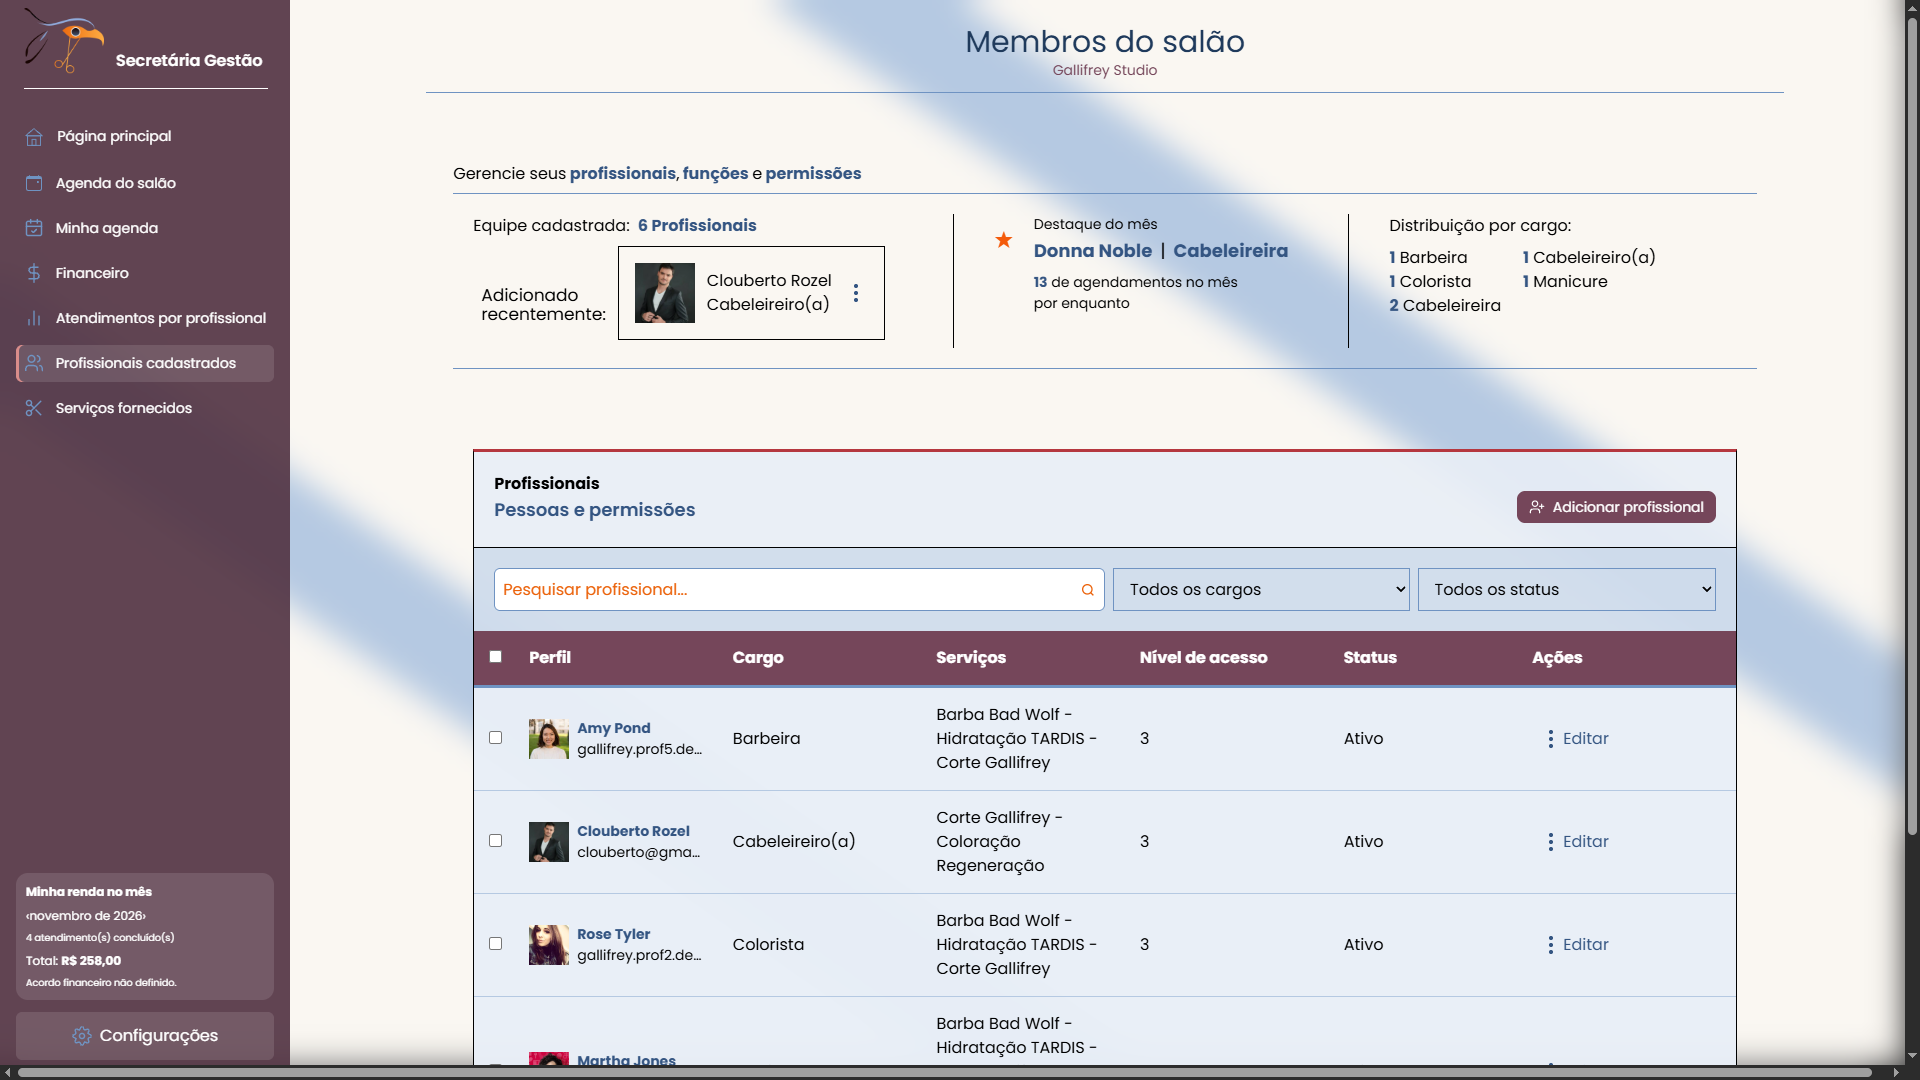
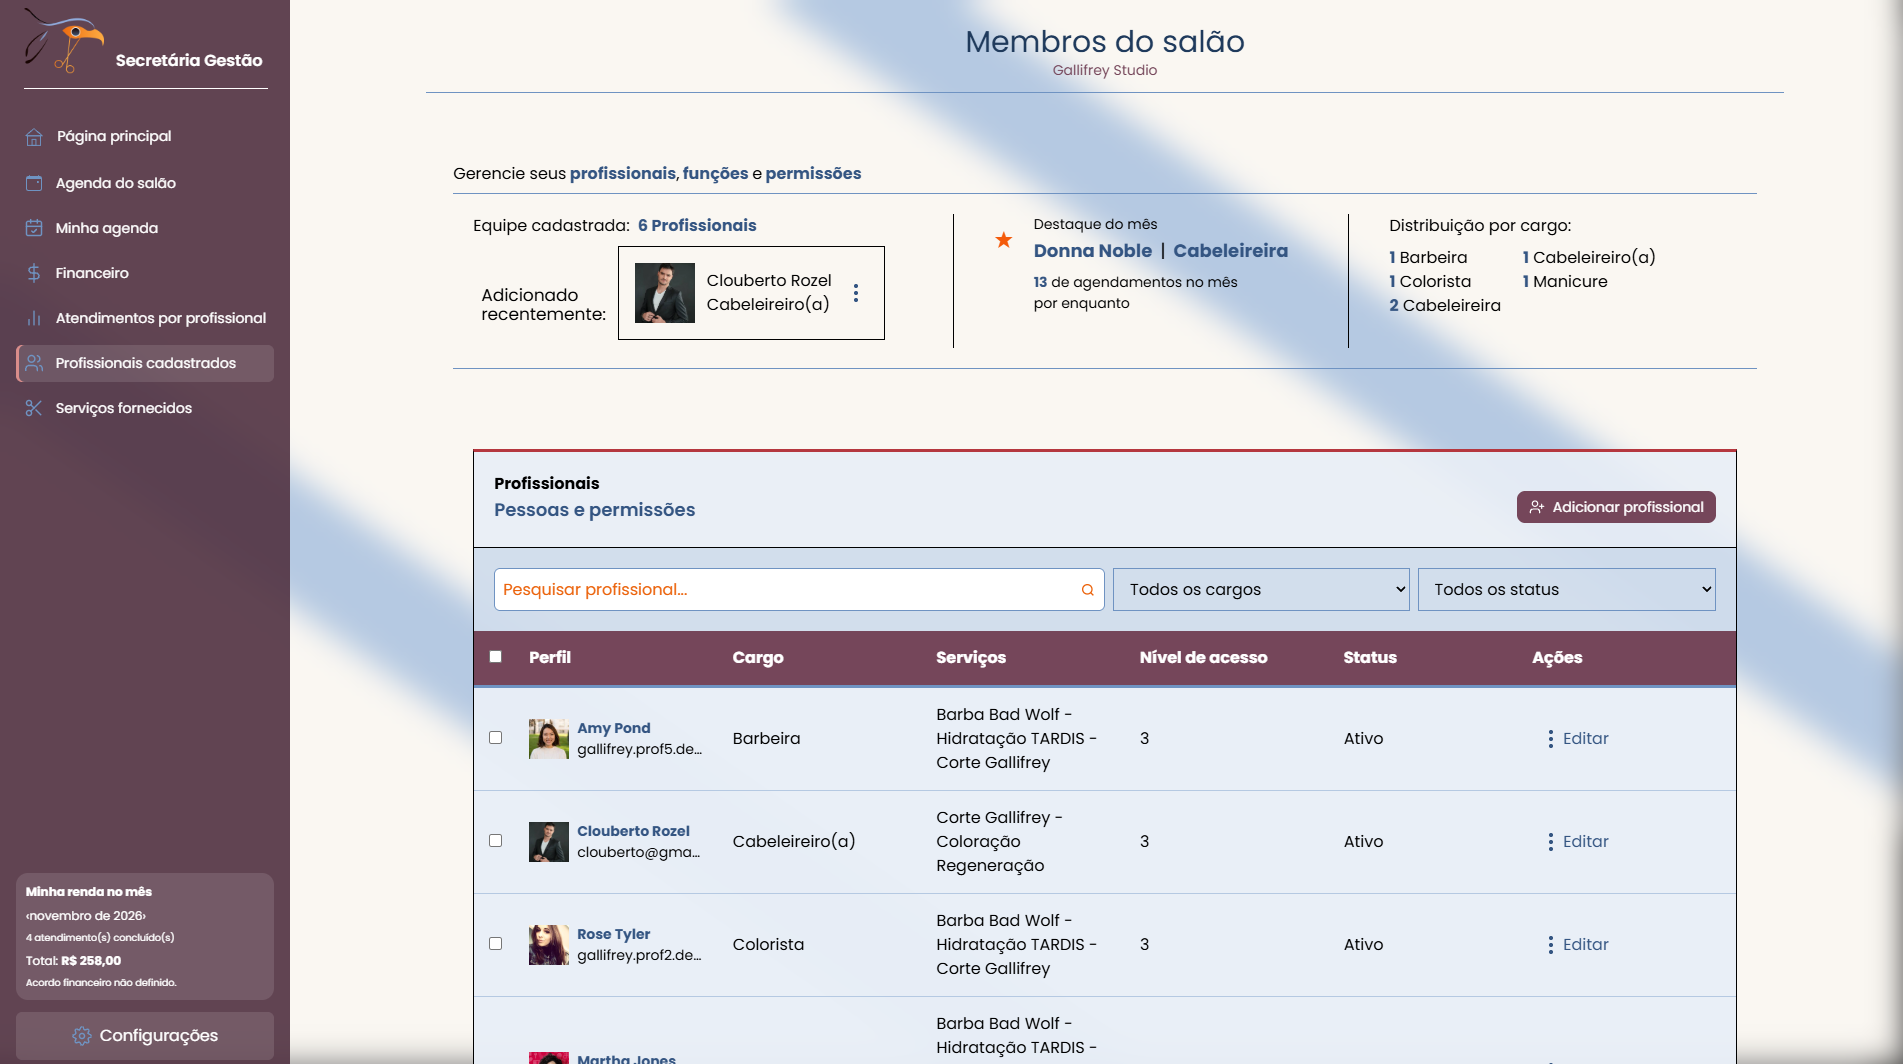
Continuando o layout

diff --git a/web/src/pages/Homepage/components/CardAcesso/CardAcesso.jsx b/web/src/pages/Homepage/components/CardAcesso/CardAcesso.jsx
@@ -9,10 +9,10 @@ function CardAcesso() {
 
   return (
     <div className='h-dvh overflow-x-hidden'>
-      <div className='h-full w-dvw bg-areia/20'>
+      <div className='h-full w-dvw bg-areia/30'>
 
         <header className='bg-ameixa flex p-5 gap-2 justify-between'>
-          <div className='flex items-center gap-2 bg-[#704356] p-2 rounded-md shadow-lg'>
+          <div className='flex items-center gap-2 p-2'>
             <img className="shrink-0 w-20" src="/logo_SVG.svg" alt="" />
 
             <div>
@@ -54,23 +54,49 @@ function CardAcesso() {
 
         </header>
 
-        <main className='h-full flex items-center bg  justify-center w-8/10 place-self-center'>
-          <div className='flex  gap-20 '>
+        <main className='h-full flex items-center justify-center w-8/10 place-self-center'>
+          <div className='flex gap-20 '>
 
             <img src="/imagem_homepage1.png" alt="" className='w-6/10 shadow-2xl' />
 
-            <div className='place-self-start h-max flex flex-col gap-2'>
+            <div className='place-self-center h-max flex flex-col gap-2'>
               <b className='text-4xl'>Organização, <br /> agilidade e beleza, <br /> tudo em um só lugar!</b>
               <p className=''>
                 Agende seu horário no salão em poucos cliques, ou <br /> gerencie agenda, profissionais e serviços do seu salão <br /> em um painel só.
               </p>
+              <div className='secao-card-comentarios'>
+                <div className='bg-azul-profundo text-white card-comentarios'>
+                  <div className='text-sm gap-4 flex'> Clarice Souza <div>★★★★☆</div></div>
+                  <p className='font-extralight text-sm -mt-4'> - Cliente </p>
+                  <p >"Achei fácil de usar, porém a tela de meus agendamentos é confusa."</p>
+                </div>
+                <div className='bg-azul-profundo text-white card-comentarios'>
+                  <div className='text-sm gap-4 flex'>Clarice Souza <div>★★★★☆</div> </div>
+                  <p >"Achei fácil de usar, porém a tela de meus agendamentos é confusa."</p>
+                </div>
+                <div className='bg-azul-profundo text-white card-comentarios'>
+                  <div className='text-sm gap-4 flex'> Clarice Souza <div>★★★★☆</div></div>
+                  <p className='font-extralight text-sm -mt-4'> - Cliente </p>
+                  <p >"Achei fácil de usar, porém a tela de meus agendamentos é confusa."</p>
+                </div>
+                <div className='bg-azul-profundo text-white card-comentarios'>
+                  <div className='text-sm gap-4 flex'> Clarice Souza <div>★★★★☆</div></div>
+                  <p className='font-extralight text-sm -mt-4'> - Cliente </p>
+                  <p >"Achei fácil de usar, porém a tela de meus agendamentos é confusa."</p>
+                </div>
+                <div className='bg-azul-profundo text-white card-comentarios'>
+                  <div className='text-sm gap-4 flex'> Clarice Souza <div>★★★★☆</div></div>
+                  <p className='font-extralight text-sm -mt-4'> - Cliente </p>
+                  <p >"Achei fácil de usar, porém a tela de meus agendamentos é confusa."</p>
+                </div>
+              </div>
             </div>
           </div>
         </main>
 
       </div>
 
-      <div className='h-full w-dvw bg-amber-950 text-white'>
+      <div className='h-full w-dvw bg-azul-profundo text-white'>
         <main className='h-full flex items-center   justify-center w-7/10 place-self-center'>
           <div className='flex  gap-20 '>
 
@@ -107,7 +133,7 @@ function CardAcesso() {
                     </div>
                   )}
                 </li>
-                
+
                 <li>
                   <Link to="/login" className='bg-[#704356] shadow-lg p-2 rounded-md'>
                     Agendar um horário

diff --git a/web/src/pages/Homepage/components/CardAcesso/CardAcesso.css b/web/src/pages/Homepage/components/CardAcesso/CardAcesso.css
@@ -1,24 +1,21 @@
-.homepage-CardAcesso {
-    display: flex;
-    flex-direction: column;
-    align-items: center;
-    width: max-content;
-    min-width: 320px;
-    border: 2px solid var(--borda-suave);
-    background-color: var(--fundo-cartao);
-    backdrop-filter: blur(10px);
-    border-radius: 35px;
-    padding: 45px;
-    text-decoration: none;
-    color: var(--texto);
-
+.secao-card-comentarios{
+    display: grid;
+    width: 84%;
+    margin-top: 10%;
+    grid-column-gap: 1%;
+    grid-template-columns: 1fr 1fr 1fr 1fr 1fr;
+    overflow-x: auto;
+    scrollbar-width: thin;
+    scrollbar-color: var(bg-azul-profundo) transparent;
+    justify-content: space-between;
 }
 
-.homepage-link {
-    text-decoration: none;
-    background-color: var(--borda-suave);
-    padding: 5px;
-    border-radius: 10px;
-    margin-top: 10px;
-    color: var(--texto);
+.card-comentarios{
+    height: 200px;
+    width: 260px;
+    padding: 1.5rem;
+    border-radius: 15px;
+    display: flex;
+    flex-direction: column;
+    justify-content: space-between;
 }

diff --git a/web/src/global.css b/web/src/global.css
@@ -28,7 +28,7 @@
     --color-azul-po: #B5C9E2;
     --color-azul-ceu: #6F93C2;
     --color-azul-medio: #3F6494;
-    --color-azul-profundo: #1F3A5C;
+    --color-azul-profundo: #092140;
 
     /* Alertas */
     --color-laranja: #EB620A;
@@ -95,6 +95,11 @@ button[disabled] {
 .main-principal {
     @apply w-dvw min-h-dvh bg-no-repeat bg-fixed bg-center ;
     background: repeating-linear-gradient(to top right, var(--fundo-pagina) 10% 35%, var(--color-azul-po) 35% 40%, var(--fundo-pagina) 40% 45%);
+}
+
+.main-principal-escuro {
+    @apply w-dvw min-h-dvh bg-no-repeat bg-fixed bg-center ;
+    background: repeating-linear-gradient(to top right, var(--color-azul-profundo) 10% 35%, var(--color-cobre) 35% 40%, var(--color-azul-profundo) 40% 45%);
 }
 
 /* O blur fica numa camada atrás do conteúdo, e não num ancestral dele: backdrop-filter num ancestral faz dele a
